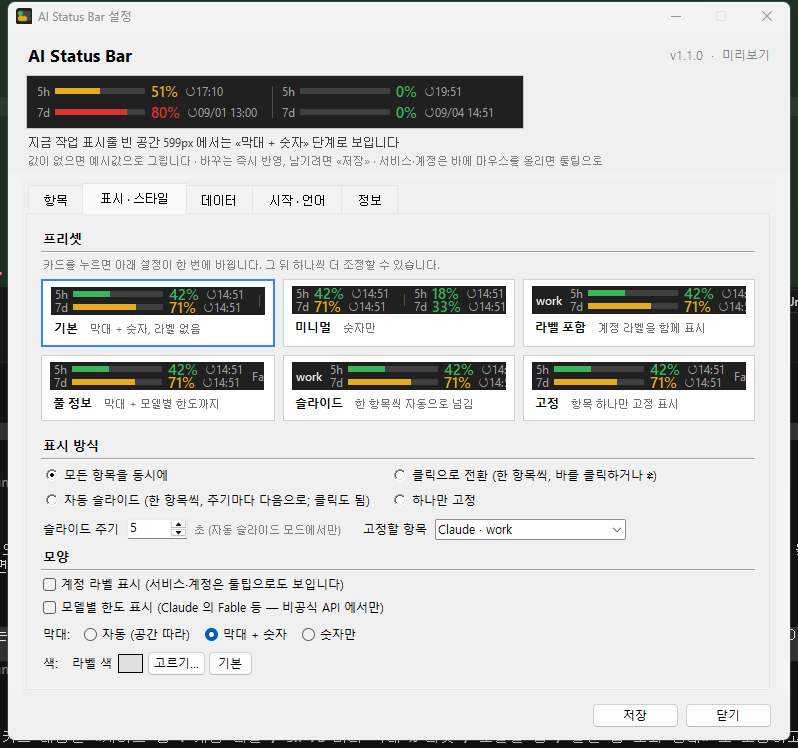
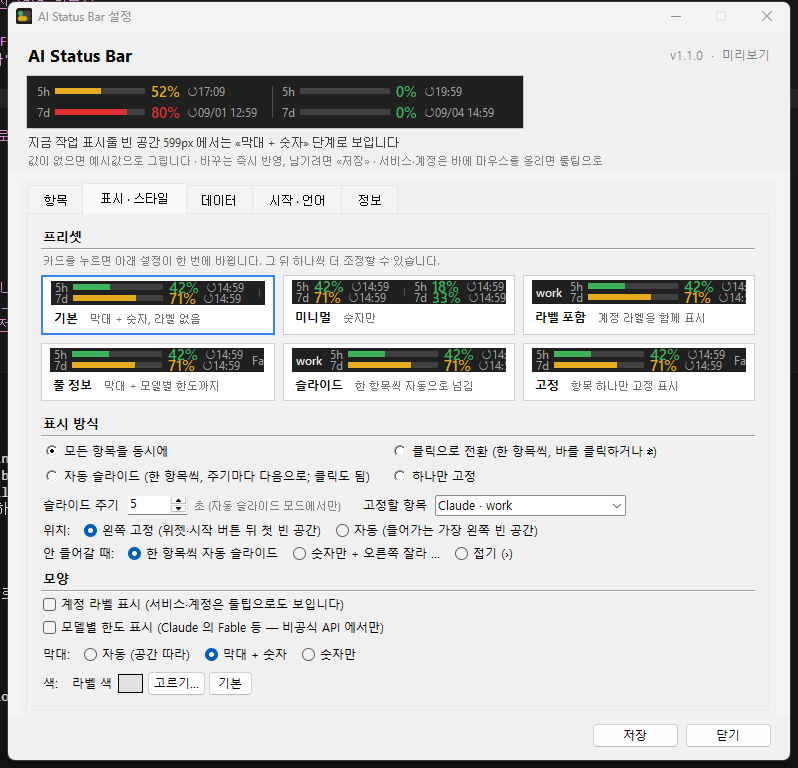
v1.1.0 — placement (fixed left / auto) and overflow policy (slide / numbers / collapse) with one-time notification
- placement=left (default) keeps the bar in the first gap after the widgets / Start button and never jumps to another gap
- when all entries do not fit: bars → numbers → policy: temporary auto slide one entry at a time (default), numbers-only clipped with an ellipsis, or collapse to ›
- temporary adjustment never touches settings.json; reverts silently when space returns; tray notification once per episode; preview hint and tray tooltip show (auto-adjusted)
- tooltip card is kept above the taskbar edge so it never feeds the free-space measurement
- harness: 88 checks incl. forced 300px gap with 3 entries for each policy, placement left vs auto

diff --git a/ai_status_bar.py b/ai_status_bar.py
@@ -64,6 +64,8 @@ OLD_STARTUP_LNK = os.path.join(STARTUP_DIR, "Claude Status Bar.lnk")
 APP_DIR = os.path.dirname(os.path.abspath(sys.executable if FROZEN else __file__))   # 풀어 둔 그 자리
 MODES = ("all", "click", "slide", "fixed")
 BAR_STYLES = ("auto", "bars", "numbers")
+PLACEMENTS = ("left", "auto")                 # left = 위젯/시작 버튼 뒤 첫 빈 공간에 고정 / auto = 들어가는 가장 왼쪽 빈 공간
+OVERFLOW_POLICIES = ("slide", "numbers", "collapse")   # «모두 동시에» 가 안 들어갈 때
 DEFAULT_SETTINGS = {
     "entries": [],               # [{"provider", "path", "label", "enabled", "windows": {"5h": True, "7d": True}}]
     "display_mode": "all",       # all = 모두 동시에 / click = 클릭으로 전환 / slide = 자동 슬라이드 / fixed = 하나 고정
@@ -71,6 +73,8 @@ DEFAULT_SETTINGS = {
     "fixed_entry": "",           # "provider|path"
     "show_scoped": True,         # 모델별 한도 (Claude: Fable 등)
     "style": {"label": False, "bars": "auto", "label_color": ""},
+    "placement": "left",
+    "overflow_policy": "slide",
     "language": "auto",
     "data_source": "api",        # api = 비공식 API / official = 상태줄 데이터만 (네트워크 0)
     "official_hide_unsupported": True,
@@ -115,6 +119,10 @@ def load_settings():
         s["style"]["bars"] = st["bars"]
     v = st.get("label_color") or ""
     s["style"]["label_color"] = v if isinstance(v, str) and v.startswith("#") and len(v) == 7 else ""
+    if raw.get("placement") in PLACEMENTS:
+        s["placement"] = raw["placement"]
+    if raw.get("overflow_policy") in OVERFLOW_POLICIES:
+        s["overflow_policy"] = raw["overflow_policy"]
     if raw.get("language") in ("auto",) + SUPPORTED:
         s["language"] = raw["language"]
     if raw.get("data_source") in ("api", "official"):
@@ -196,6 +204,8 @@ class StatusBar:
         self.settings_win = None
         self.help_win = None
         self._ov = None                               # 미리보기용 오버라이드 {"settings","entries","data"}
+        self.auto_adjusted = None                     # 빈 공간 부족으로 임시 전환된 정책 ("slide"|"numbers"|"collapse") — 설정 파일은 안 바뀐다
+        self.clip_w = None                            # numbers 정책으로 잘라 그릴 때의 폭
         self.mode = "full"
         self.signature = None
         self.gap = (0, 0)
@@ -251,6 +261,13 @@ class StatusBar:
         """그리기에 쓰는 설정 — 미리보기 중이면 폼의 임시 설정."""
         return self._ov["settings"] if self._ov else self.settings
 
+    def display_mode(self):
+        """실제로 적용되는 표시 모드 — 빈 공간 부족으로 임시 슬라이드 중이면 slide."""
+        S = self.cfg()
+        if not self._ov and self.auto_adjusted == "slide" and S["display_mode"] == "all":
+            return "slide"
+        return S["display_mode"]
+
     def official(self):
         return self.cfg()["data_source"] == "official"
 
@@ -293,7 +310,7 @@ class StatusBar:
         if not ents:
             return []
         S = self.cfg()
-        mode = S["display_mode"]
+        mode = self.display_mode()
         if mode == "fixed":
             for e in ents:
                 if entry_key(e) == S["fixed_entry"]:
@@ -307,7 +324,7 @@ class StatusBar:
         return ents
 
     def switchable(self):
-        return self.cfg()["display_mode"] in ("click", "slide") and len(self.enabled_entries()) > 1
+        return self.display_mode() in ("click", "slide") and len(self.enabled_entries()) > 1
 
     def next_entry(self):
         if self.switchable():
@@ -321,7 +338,7 @@ class StatusBar:
             self.cycle_job = None
         if self.hovering:                              # 바 위에 마우스가 있으면 정지 — Leave 때 주기 전체를 새로 시작
             return
-        if self.settings["display_mode"] == "slide" and len(self.enabled_entries()) > 1:
+        if self.display_mode() == "slide" and len(self.enabled_entries()) > 1:
             self.cycle_job = self.root.after(self.settings["slide_sec"] * 1000, self.next_entry)
 
     # --- 다른 스레드에서 온 일감을 메인 루프에서 처리 ---
@@ -379,7 +396,8 @@ class StatusBar:
             first = self.visible_entries()[:1]
             d = self.data.get(entry_key(first[0])) if first else None
             self.tray.icon = draw_icon(d and d.get("usage"), error=bool(d and d.get("error")))
-            self.tray.title = f"{APP_TITLE} — {self.tray_status()}"[:127]
+            prefix = t("tray_auto_prefix") if self.auto_adjusted else ""
+            self.tray.title = f"{prefix}{APP_TITLE} — {self.tray_status()}"[:127]
             self.tray.update_menu()
         except Exception:
             pass
@@ -431,19 +449,77 @@ class StatusBar:
             self.canvas.configure(bg=self.key)
             self.root.configure(bg=self.key)
             self.root.attributes("-transparentcolor", self.key)
-        need = self.px(24)
-        self.gap = self.gaps[0] if self.gaps else (m, m + need)
-        for mode in self.tiers():
-            self.mode = mode
-            need = self.draw()
-            fits = [g for g in self.gaps if g[1] - g[0] >= need]
-            if fits:
-                self.gap = fits[0]
-                break
+        need = self.place_and_draw()
         self.canvas.configure(width=need)
         _, top, _, _ = tb.win_rect(tb.taskbar())
         tb.place(self.hwnd, self.gap[0], top, need, self.h)
         self.root.deiconify()
+
+    def candidate_gaps(self):
+        """placement=left 면 첫 빈 공간 하나(다른 빈 공간으로 건너뛰지 않는다), auto 면 전부."""
+        if not self.gaps:
+            return []
+        return self.gaps[:1] if self.settings["placement"] == "left" else list(self.gaps)
+
+    def try_fit(self, modes):
+        """모드들을 순서대로 그려 보고 들어가는 첫 (mode, gap, need) — 없으면 None."""
+        for mode in modes:
+            self.mode = mode
+            need = self.draw()
+            for g in self.candidate_gaps():
+                if g[1] - g[0] >= need:
+                    return mode, g, need
+        return None
+
+    def place_and_draw(self):
+        """설정대로 들어가면 그대로. 안 들어가면 overflow_policy 대로 임시 조절하고(설정 파일은 그대로) 알림 1회.
+        다시 들어가면 조용히 원래대로. 필요한 폭을 돌려준다."""
+        m = int(MARGIN * self.scale)
+        self.clip_w = None
+        self.gap = self.gaps[0] if self.gaps else (m, m + self.px(24))
+        before = self.auto_adjusted
+        self.auto_adjusted = None                                   # 먼저 원래 설정으로 시도
+        shrink = [x for x in self.tiers() if x != "collapsed"]
+        fit = self.try_fit(shrink)
+        if fit is None and self.gaps:
+            policy = self.settings["overflow_policy"]
+            multi = self.settings["display_mode"] == "all" and len(self.enabled_entries()) > 1
+            if policy == "slide" and multi:
+                self.auto_adjusted = "slide"                         # 한 항목씩 (visible_entries 가 display_mode() 를 따른다)
+                fit = self.try_fit(shrink)
+            if fit is None and policy in ("slide", "numbers"):
+                g = self.candidate_gaps()[0]
+                self.auto_adjusted = self.auto_adjusted or "numbers"
+                if policy == "numbers" or self.auto_adjusted == "numbers":
+                    self.auto_adjusted = "numbers"
+                self.mode = "compact"
+                self.clip_w = g[1] - g[0]
+                self.draw()
+                self.draw_ellipsis(self.clip_w)
+                fit = ("compact", g, self.clip_w)
+            if fit is None:
+                self.auto_adjusted = "collapse"
+                self.mode = "collapsed"
+                fit = ("collapsed", self.candidate_gaps()[0], self.draw())
+        if fit is None:                                              # 빈 공간을 아직 못 잰 상태
+            self.mode = "collapsed"
+            fit = ("collapsed", self.gap, self.draw())
+        self.mode, self.gap, need = fit
+        if self.auto_adjusted != before:
+            self.schedule_cycle()
+            self.update_tray()
+            if self.auto_adjusted and (before is None or before != self.auto_adjusted):
+                self.notify(t(f"notify_overflow_{self.auto_adjusted}"))
+            if self.settings_win:
+                self.preview_dirty()
+        return need
+
+    def draw_ellipsis(self, clip_w):
+        """numbers 정책: 오른쪽 넘치는 부분을 투명 키 색 사각형으로 가리고 … 을 찍는다."""
+        c = self.canvas
+        w = self.px(18)
+        c.create_rectangle(clip_w - w, 0, clip_w, self.h, fill=self.key, outline="", tags=("ellipsis",))
+        c.create_text(clip_w - w // 2, self.h // 2, text="…", fill=self.dim, font=self.font(10, True), tags=("ellipsis",))
 
     def watch(self):
         """2초마다: 잠금·전체화면·작업 표시줄 변화를 보고 필요한 만큼만 손댄다."""
@@ -831,9 +907,9 @@ class StatusBar:
         sw = self.root.winfo_screenwidth()
         x = max(0, min(int(x_root - tw / 2), sw - tw))
         anchor_y = y_root if y_root is not None else top
-        y = anchor_y - th - self.px(12)
+        y = min(anchor_y - th - self.px(12), top - th - self.px(8))   # 작업 표시줄 위로 — 겹치면 빈 공간 측정에 잡힌다
         if y < 0:
-            y = anchor_y + self.px(16)
+            y = max(anchor_y, bottom) + self.px(8)
         self.tooltip.geometry(f"+{x}+{y}")
 
     def hide_tooltip(self):
@@ -904,6 +980,7 @@ class StatusBar:
             "entries": entries, "display_mode": self.v_mode.get(), "slide_sec": slide_sec, "fixed_entry": fixed,
             "show_scoped": self.v_scoped.get(),
             "style": {"label": self.v_label.get(), "bars": self.v_bars.get(), "label_color": self.v_label_color.get()},
+            "placement": self.v_placement.get(), "overflow_policy": self.v_overflow.get(),
             "language": language, "data_source": self.v_ds.get(),
             "official_hide_unsupported": self.v_hide.get(),
             "seen_providers": [p.id for p in PROVIDERS],
@@ -985,7 +1062,10 @@ class StatusBar:
             need = self.render_preview(c, S, h, mode=tier)
         c.configure(width=min(max(need + self.px(8), self.px(120)), self.px(700)))
         if gap_w:
-            self.preview_hint.configure(text=t("preview_hint", n=gap_w, tier=t(f"tier_{tier}")))
+            txt = t("preview_hint", n=gap_w, tier=t(f"tier_{tier}"))
+            if self.auto_adjusted:
+                txt += t("preview_auto_adjusted", policy=t(f"policy_{self.auto_adjusted}"))
+            self.preview_hint.configure(text=txt)
         else:
             self.preview_hint.configure(text=t("preview_hint_nogap"))
         self.highlight_presets(S)
@@ -1023,8 +1103,8 @@ class StatusBar:
     # --- 창 ---
     def section(self, parent, key, row, hint=None):
         """굵은 제목 + 얇은 구분선 (+ 회색 설명 한 줄)."""
-        ttk.Label(parent, text=t(key), font=("Segoe UI", 10, "bold")).grid(row=row, column=0, columnspan=4, sticky="w", pady=(6, 0))
-        ttk.Separator(parent, orient="horizontal").grid(row=row + 1, column=0, columnspan=4, sticky="ew", pady=(2, 3))
+        ttk.Label(parent, text=t(key), font=("Segoe UI", 10, "bold")).grid(row=row, column=0, columnspan=4, sticky="w", pady=(4, 0))
+        ttk.Separator(parent, orient="horizontal").grid(row=row + 1, column=0, columnspan=4, sticky="ew", pady=(1, 2))
         if hint:
             ttk.Label(parent, text=t(hint), foreground="#808080", font=("Segoe UI", 8), wraplength=self.px(690), justify="left").grid(
                 row=row + 2, column=0, columnspan=4, sticky="w", pady=(0, 6))
@@ -1212,6 +1292,8 @@ class StatusBar:
         self.v_scoped = self.watch_var(tk.BooleanVar(value=self.settings["show_scoped"]))
         self.v_bars = self.watch_var(tk.StringVar(value=st["bars"]))
         self.v_label_color = self.watch_var(tk.StringVar(value=st["label_color"]))
+        self.v_placement = self.watch_var(tk.StringVar(value=self.settings["placement"]))
+        self.v_overflow = self.watch_var(tk.StringVar(value=self.settings["overflow_policy"]))
         names = [n for _, n in self.fixed_choices()]
         cur = next((n for k, n in self.fixed_choices() if k == self.settings["fixed_entry"]), names[0] if names else "")
         self.v_fixed = self.watch_var(tk.StringVar(value=cur))
@@ -1222,10 +1304,10 @@ class StatusBar:
         grid.grid(row=row, column=0, columnspan=4, sticky="ew")
         self.preset_cards = []
         for i, (key, values) in enumerate(self.PRESETS):
-            card = tk.Frame(grid, bg="#ffffff", highlightthickness=1, highlightbackground="#d0d0d0", cursor="hand2", padx=8, pady=6)
+            card = tk.Frame(grid, bg="#ffffff", highlightthickness=1, highlightbackground="#d0d0d0", cursor="hand2", padx=8, pady=4)
             card.grid(row=i // 3, column=i % 3, padx=(0, 8) if i % 3 < 2 else 0, pady=(0, 8), sticky="nsew")
             grid.columnconfigure(i % 3, weight=1)
-            cv = tk.Canvas(card, width=self.px(214), height=self.px(28), bg="#202020", highlightthickness=0, bd=0)
+            cv = tk.Canvas(card, width=self.px(214), height=self.px(24), bg="#202020", highlightthickness=0, bd=0)
             cv.pack(anchor="w")
             self.draw_preset_card(cv, values)
             row_ = tk.Frame(card, bg="#ffffff")
@@ -1251,9 +1333,19 @@ class StatusBar:
         ttk.Label(sub, text=t("fixed_hint")).pack(side="left")
         self.fixed_combo = ttk.Combobox(sub, textvariable=self.v_fixed, values=names, state="readonly", width=24)
         self.fixed_combo.pack(side="left", padx=(6, 0))
+        prow = ttk.Frame(f)
+        prow.grid(row=row + 2, column=0, columnspan=4, sticky="w", pady=(4, 0))
+        ttk.Label(prow, text=t("placement_label")).pack(side="left")
+        for val in PLACEMENTS:
+            ttk.Radiobutton(prow, text=t(f"placement_{val}"), variable=self.v_placement, value=val).pack(side="left", padx=(10, 0))
+        orow = ttk.Frame(f)
+        orow.grid(row=row + 3, column=0, columnspan=4, sticky="w", pady=(2, 0))
+        ttk.Label(orow, text=t("overflow_label")).pack(side="left")
+        for val in OVERFLOW_POLICIES:
+            ttk.Radiobutton(orow, text=t(f"policy_{val}"), variable=self.v_overflow, value=val).pack(side="left", padx=(10, 0))
 
         # 모양
-        row = self.section(f, "sec_look", row + 2)
+        row = self.section(f, "sec_look", row + 4)
         lf = ttk.Frame(f)
         lf.grid(row=row, column=0, columnspan=4, sticky="ew")
         ttk.Checkbutton(lf, text=t("style_label"), variable=self.v_label).grid(row=0, column=0, sticky="w")

diff --git a/i18n.py b/i18n.py
@@ -697,6 +697,18 @@ STRINGS = {
 # ------------------------------------------------------------------ v1.1 추가 키 (미리보기·프리셋·탭·저장·툴팁)
 EXTRA = {
 "ko": {
+    'placement_label': '위치:',
+    'placement_left': '왼쪽 고정 (위젯·시작 버튼 뒤 첫 빈 공간)',
+    'placement_auto': '자동 (들어가는 가장 왼쪽 빈 공간)',
+    'overflow_label': '안 들어갈 때:',
+    'policy_slide': '한 항목씩 자동 슬라이드',
+    'policy_numbers': '숫자만 + 오른쪽 잘라 …',
+    'policy_collapse': '접기 (›)',
+    'notify_overflow_slide': '빈 공간이 부족해 한 항목씩 자동 슬라이드로 표시합니다. 설정 › 표시 · 스타일에서 바꿀 수 있습니다.',
+    'notify_overflow_numbers': '빈 공간이 부족해 숫자만 표시하고 오른쪽을 잘랐습니다(…). 설정 › 표시 · 스타일에서 바꿀 수 있습니다.',
+    'notify_overflow_collapse': '빈 공간이 부족해 › 로 접었습니다. 누르면 상세가 뜹니다. 설정 › 표시 · 스타일에서 바꿀 수 있습니다.',
+    'preview_auto_adjusted': ' — 자동 조절됨: {policy}',
+    'tray_auto_prefix': '(자동 조절) ',
     'tt_fetched_only': '조회 {time} 성공',
     'tab_entries': '항목',
     'tab_display': '표시 · 스타일',
@@ -749,6 +761,18 @@ EXTRA = {
     'tt_loading': '조회 중…',
 },
 "en": {
+    'placement_label': 'Position:',
+    'placement_left': 'Fixed left (first gap after the widgets / Start button)',
+    'placement_auto': 'Auto (left-most gap that fits)',
+    'overflow_label': "When it doesn't fit:",
+    'policy_slide': 'Auto slide, one entry at a time',
+    'policy_numbers': 'Numbers only, clip the right (…)',
+    'policy_collapse': 'Collapse (›)',
+    'notify_overflow_slide': 'Not enough free space — showing one entry at a time (auto slide). Change this in Settings › Display & style.',
+    'notify_overflow_numbers': 'Not enough free space — showing numbers only and clipping the right (…). Change this in Settings › Display & style.',
+    'notify_overflow_collapse': 'Not enough free space — collapsed to ›. Click it for details. Change this in Settings › Display & style.',
+    'preview_auto_adjusted': ' — auto-adjusted: {policy}',
+    'tray_auto_prefix': '(auto-adjusted) ',
     'tt_fetched_only': 'fetched {time} OK',
     'tab_entries': 'Entries',
     'tab_display': 'Display & style',
@@ -801,6 +825,18 @@ EXTRA = {
     'tt_loading': 'loading…',
 },
 "ja": {
+    'placement_label': '位置:',
+    'placement_left': '左に固定 (ウィジェット・スタートの直後の空き)',
+    'placement_auto': '自動 (収まる最も左の空き)',
+    'overflow_label': '収まらないとき:',
+    'policy_slide': '1項目ずつ自動スライド',
+    'policy_numbers': '数値のみ + 右を切る (…)',
+    'policy_collapse': '折りたたむ (›)',
+    'notify_overflow_slide': '空き領域が足りないため、1項目ずつ自動スライドで表示します。設定 › 表示・スタイルで変更できます。',
+    'notify_overflow_numbers': '空き領域が足りないため、数値のみ表示し右側を切りました(…)。設定 › 表示・スタイルで変更できます。',
+    'notify_overflow_collapse': '空き領域が足りないため › に折りたたみました。押すと詳細が出ます。設定 › 表示・スタイルで変更できます。',
+    'preview_auto_adjusted': ' — 自動調整中: {policy}',
+    'tray_auto_prefix': '(自動調整) ',
     'tt_fetched_only': '{time} に取得成功',
     'tab_entries': '項目',
     'tab_display': '表示・スタイル',
@@ -853,6 +889,18 @@ EXTRA = {
     'tt_loading': '取得中…',
 },
 "pt": {
+    'placement_label': 'Posição:',
+    'placement_left': 'Fixo à esquerda (primeiro espaço após widgets / Iniciar)',
+    'placement_auto': 'Automático (espaço mais à esquerda que couber)',
+    'overflow_label': 'Quando não couber:',
+    'policy_slide': 'Slide automático, um item por vez',
+    'policy_numbers': 'Só números + cortar à direita (…)',
+    'policy_collapse': 'Recolher (›)',
+    'notify_overflow_slide': 'Espaço livre insuficiente — mostrando um item por vez (slide automático). Altere em Configurações › Exibição e estilo.',
+    'notify_overflow_numbers': 'Espaço livre insuficiente — mostrando só números e cortando à direita (…). Altere em Configurações › Exibição e estilo.',
+    'notify_overflow_collapse': 'Espaço livre insuficiente — recolhido em ›. Clique para ver detalhes. Altere em Configurações › Exibição e estilo.',
+    'preview_auto_adjusted': ' — ajustado automaticamente: {policy}',
+    'tray_auto_prefix': '(ajuste automático) ',
     'tt_fetched_only': 'consulta {time} OK',
     'tab_entries': 'Itens',
     'tab_display': 'Exibição e estilo',
@@ -905,6 +953,18 @@ EXTRA = {
     'tt_loading': 'carregando…',
 },
 "es": {
+    'placement_label': 'Posición:',
+    'placement_left': 'Fijo a la izquierda (primer hueco tras widgets / Inicio)',
+    'placement_auto': 'Automático (hueco más a la izquierda que quepa)',
+    'overflow_label': 'Si no cabe:',
+    'policy_slide': 'Diapositiva automática, uno a la vez',
+    'policy_numbers': 'Solo números + recortar a la derecha (…)',
+    'policy_collapse': 'Plegar (›)',
+    'notify_overflow_slide': 'No hay espacio suficiente — se muestra un elemento a la vez (diapositiva automática). Cámbialo en Ajustes › Visualización y estilo.',
+    'notify_overflow_numbers': 'No hay espacio suficiente — solo números y recorte a la derecha (…). Cámbialo en Ajustes › Visualización y estilo.',
+    'notify_overflow_collapse': 'No hay espacio suficiente — plegado en ›. Púlsalo para ver detalles. Cámbialo en Ajustes › Visualización y estilo.',
+    'preview_auto_adjusted': ' — ajuste automático: {policy}',
+    'tray_auto_prefix': '(ajuste automático) ',
     'tt_fetched_only': 'consulta {time} OK',
     'tab_entries': 'Elementos',
     'tab_display': 'Visualización y estilo',
